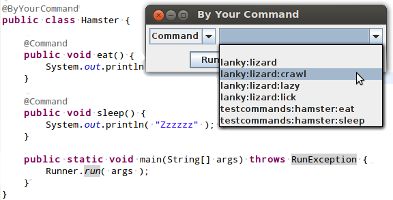
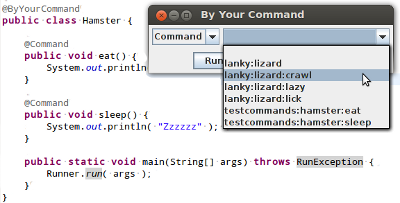
improve README

diff --git a/command-core/src/test/java/com/tobedevoured/testcommands/Hamster.java b/command-core/src/test/java/com/tobedevoured/testcommands/Hamster.java
@@ -1,5 +1,7 @@
 package com.tobedevoured.testcommands;
 
+import com.tobedevoured.command.RunException;
+import com.tobedevoured.command.Runner;
 import com.tobedevoured.command.annotation.ByYourCommand;
 import com.tobedevoured.command.annotation.Command;
 
@@ -14,5 +16,9 @@ public class Hamster {
 	@Command
 	public void sleep() {
 		System.out.println( "Zzzzzz" ); 
+	}
+	
+	public static void main(String[] args) throws RunException {
+		Runner.run( args );
 	}
 }

diff --git a/command-core/src/main/java/com/tobedevoured/command/Runner.java b/command-core/src/main/java/com/tobedevoured/command/Runner.java
@@ -231,7 +231,7 @@ public class Runner {
 		
 		UIManager.put("Button.defaultButtonFollowsFocus", Boolean.TRUE);
 		
-		final JFrame frame = new JFrame("Exec Command");
+		final JFrame frame = new JFrame("By Your Command");
 		frame.setDefaultCloseOperation(JFrame.EXIT_ON_CLOSE);
 		frame.setSize(325,115);
 		frame.setLocationRelativeTo( null ); // center on screen

diff --git a/README.md b/README.md
@@ -17,7 +17,15 @@ Dependency for Maven can use
 
 ## How Does it Work
 
- . . .
+By scanning the classpath for Classes annotated with @ByYourCommand, a methods are made executable by a GUI or from the command line. 
+
+Screenshot of the GUI Command Runner
+
+![Example GUI](https://raw.github.com/mguymon/by_your_command/master/gui_example.png)
+
+Screenshot of the Text Command Runner
+
+![Example CLI](https://raw.github.com/mguymon/by_your_command/master/cli_example.png)
 
 
 ## License
